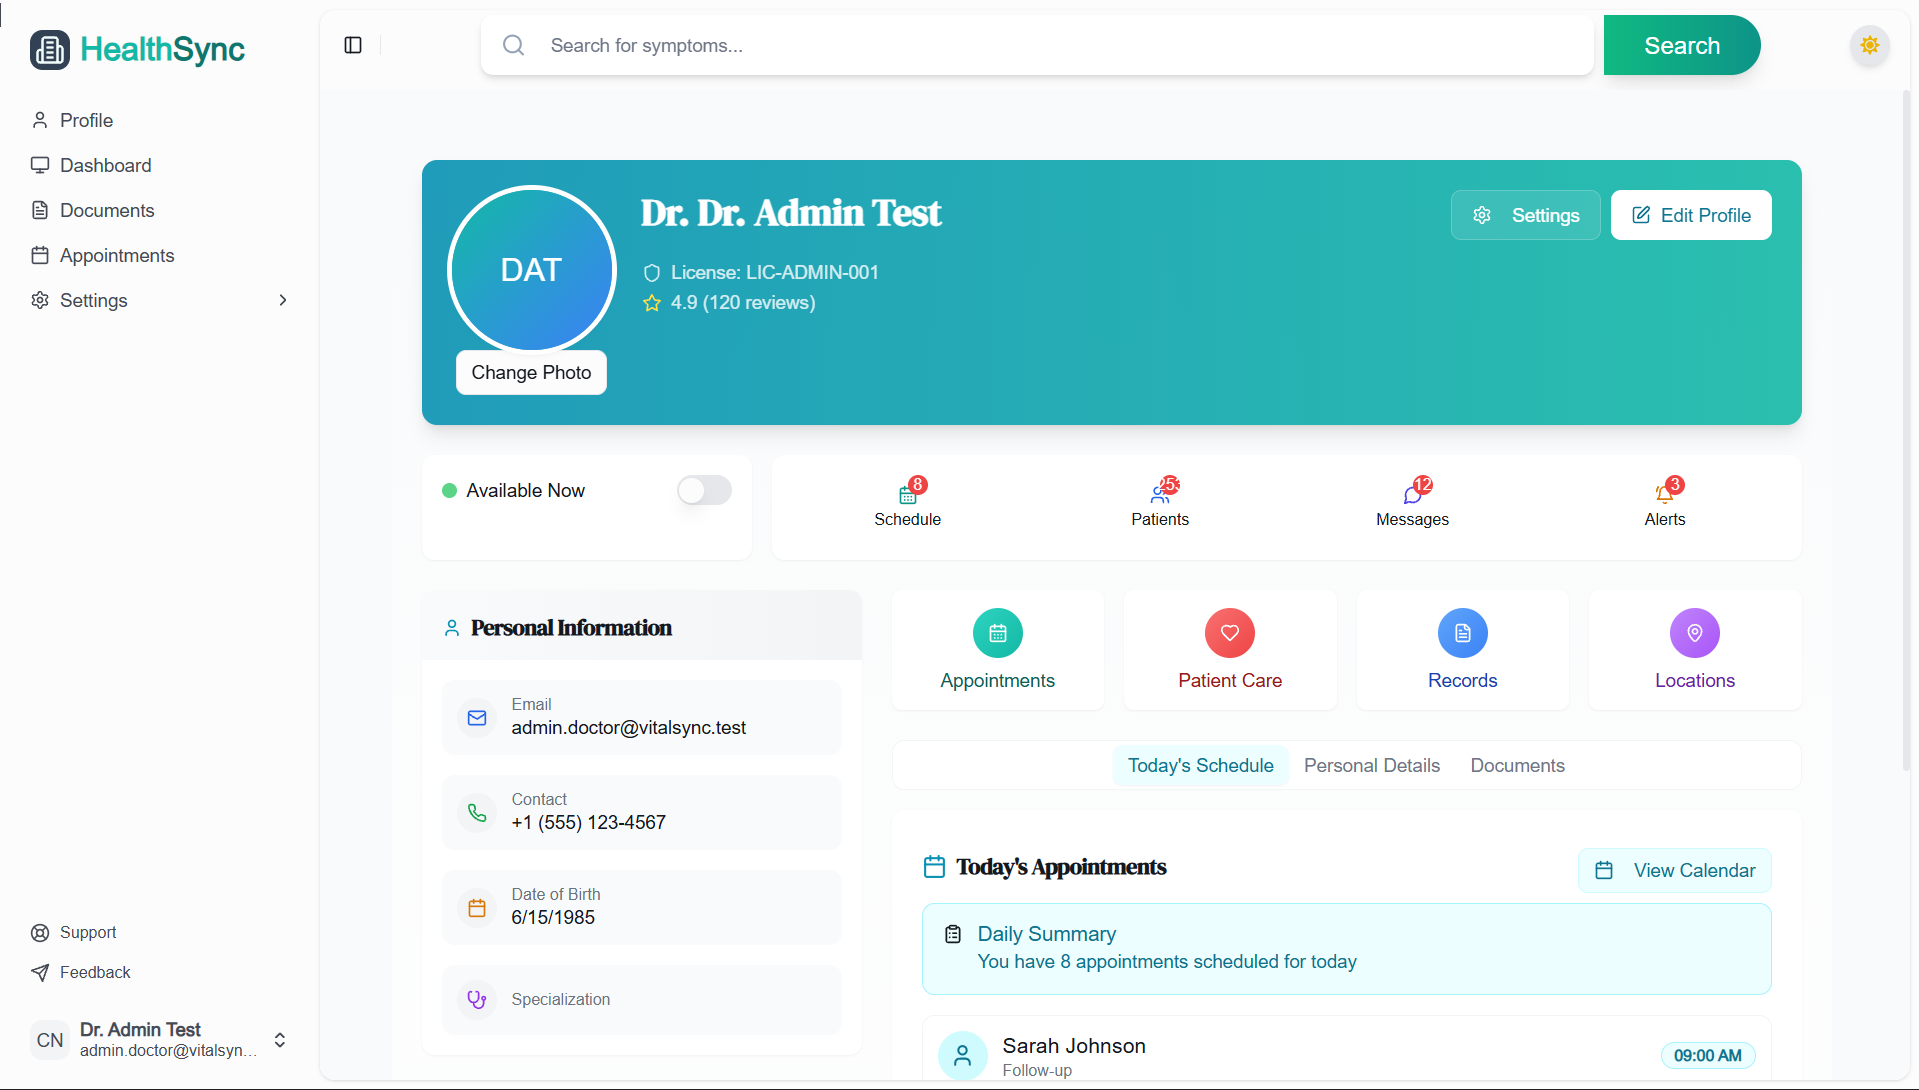
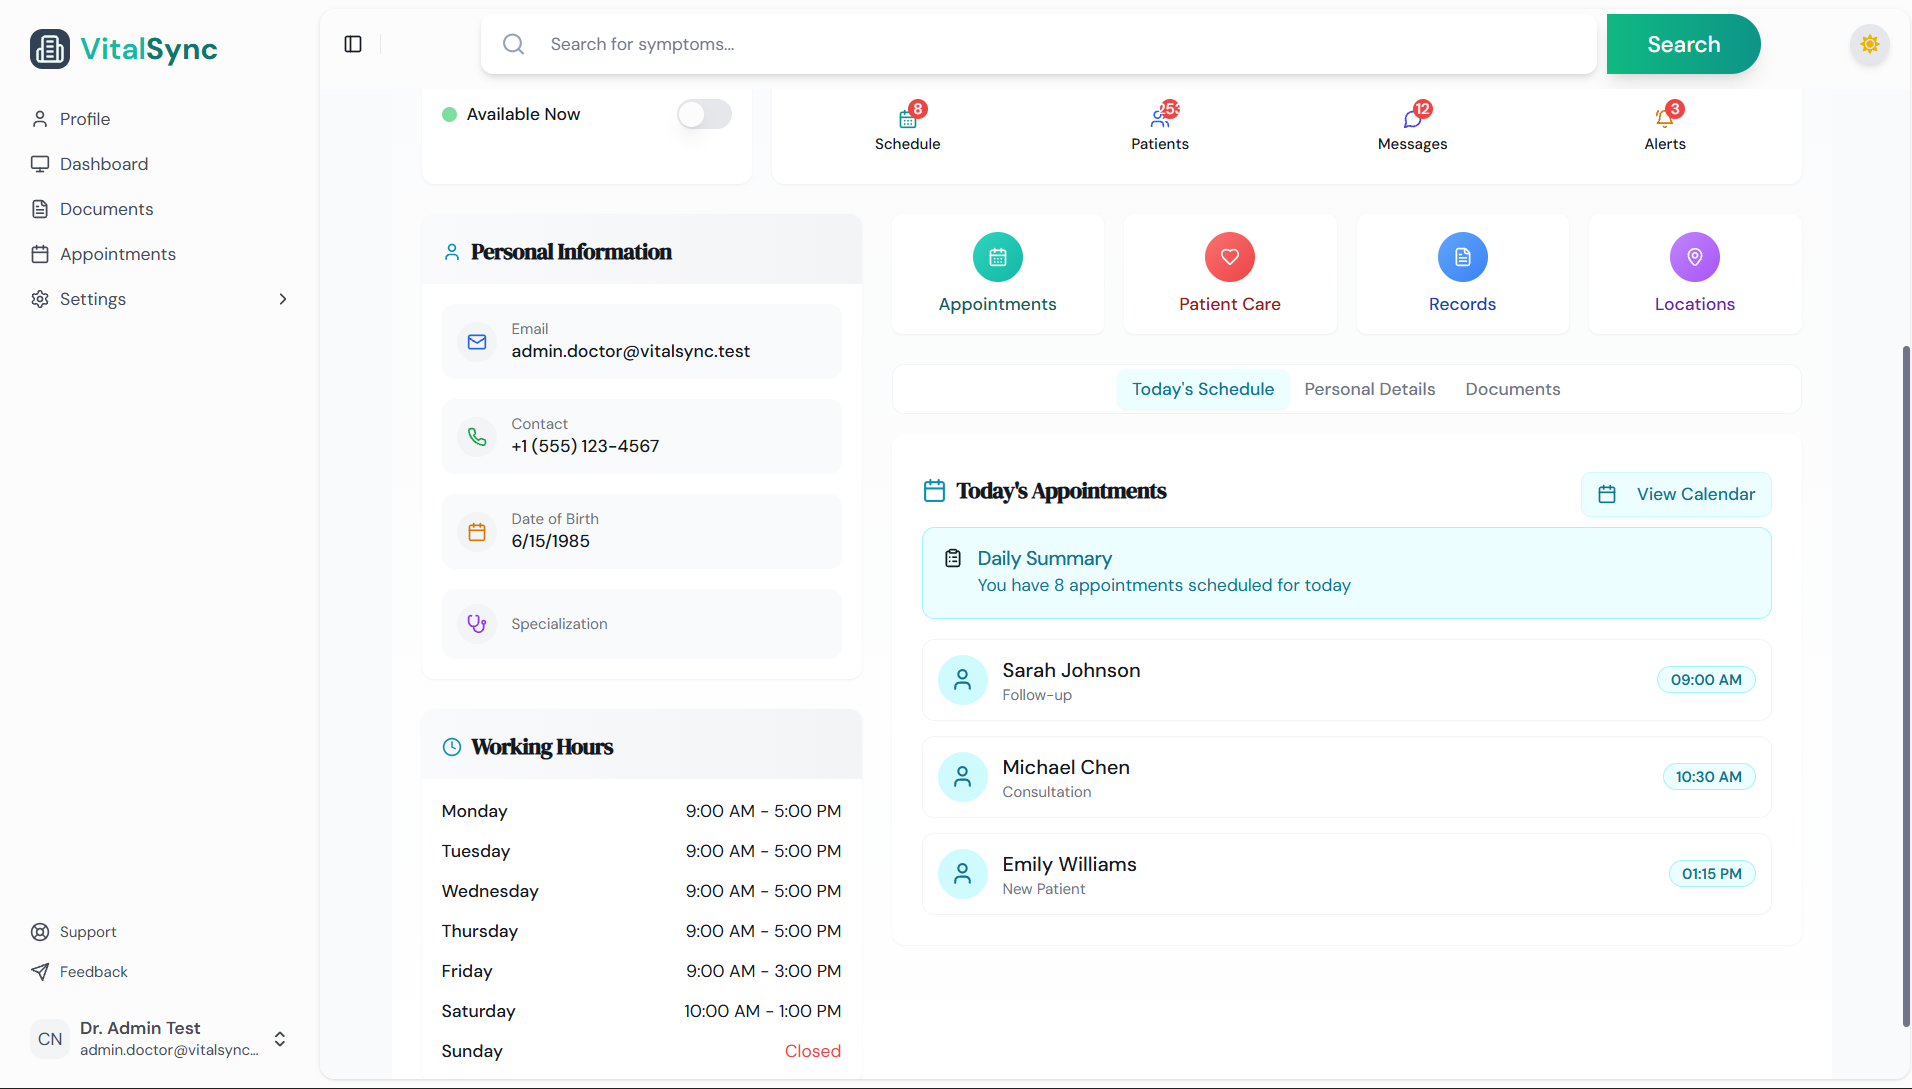
Images added

diff --git a/components/HospitalSidebar.tsx b/components/HospitalSidebar.tsx
@@ -185,7 +185,7 @@ export function HospitalSidebar({ ...props }: any) {
                 </div>
                 <div className="grid flex-1 text-left text-2xl leading-tight">
                   <span className="truncate font-semibold text-teal-500">
-                    Health
+                    Vital
                     <span className="text-teal-700 font-extrabold">Sync</span>
                   </span>
                   {/* <span className="truncate text-xs">Enterprise</span> */}

diff --git a/components/PatientSidebar.tsx b/components/PatientSidebar.tsx
@@ -108,7 +108,7 @@ export function PatientSidebar({ ...props }: any) {
                 </div>
                 <div className="grid flex-1 text-left text-2xl leading-tight">
                   <span className="truncate font-semibold text-teal-500">
-                    Health
+                    Vital
                     <span className="text-teal-700 font-extrabold">Sync</span>
                   </span>
                 </div>

diff --git a/components/DoctorSidebar.tsx b/components/DoctorSidebar.tsx
@@ -126,7 +126,7 @@ export function DoctorSidebar({ ...props }: any) {
                 </div>
                 <div className="grid flex-1 text-left text-2xl leading-tight">
                   <span className="truncate font-semibold text-teal-500">
-                    Health
+                    Vital
                     <span className="text-teal-700 font-extrabold">Sync</span>
                   </span>
                 </div>
